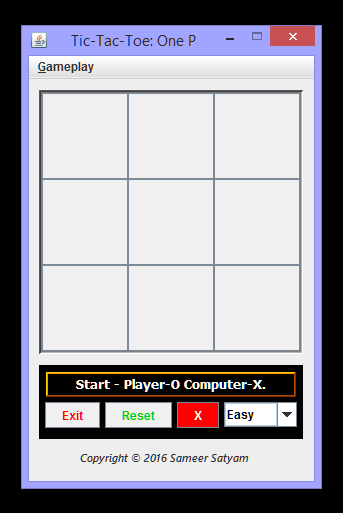
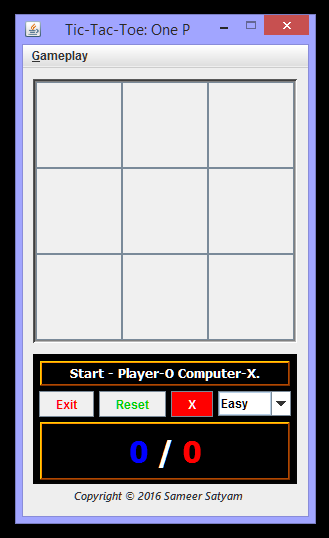
Implemented score board and screenshots replaced

diff --git a/src/TTT/SimpleBoard.java b/src/TTT/SimpleBoard.java
@@ -13,6 +13,8 @@ import java.awt.GridLayout;
 import java.awt.SystemColor;
 import java.awt.event.ActionEvent;
 import java.awt.event.ActionListener;
+import java.awt.event.ItemEvent;
+import java.awt.event.ItemListener;
 import java.awt.event.KeyEvent;
 import java.util.Arrays;
 import java.util.HashSet;
@@ -72,8 +74,18 @@ public class SimpleBoard extends JFrame implements ActionListener{
 	/** The win. */
 	private boolean win = false;
 	
+	private int scorec=0;
+	
+	private int scorep=0;
+	
 	/** The lbl new label. */
 	JLabel lblNewLabel = new JLabel("");
+	
+	/** The scorePanel new label. */
+	JLabel scorePanel = new JLabel("");
+	
+	/** Html string variable.*/
+	String HTMLlabelStr="";
 	
 	/** The choice. */
 	String[] choice = {"Easy", "Medium", "Hard"};  // Easy-random Medium-counter measures Hard-Unbeatable
@@ -89,7 +101,7 @@ public class SimpleBoard extends JFrame implements ActionListener{
 		setTitle("Tic-Tac-Toe: One P");
 		setResizable(false);
 		setDefaultCloseOperation(JFrame.EXIT_ON_CLOSE);
-		setSize(291, 454);
+		setSize(291, 500);
 		contentPane = new JPanel();
 		contentPane.setBorder(new EmptyBorder(5, 5, 5, 5));
 		setContentPane(contentPane);
@@ -115,7 +127,7 @@ public class SimpleBoard extends JFrame implements ActionListener{
 		JPanel panel_1 = new JPanel();
 		panel_1.setBackground(new Color(0, 0, 0));
 		panel_1.setBorder(new BevelBorder(BevelBorder.LOWERED, null, null, null, null));
-		panel_1.setBounds(10, 286, 264, 74);
+		panel_1.setBounds(10, 286, 264, 130);
 		contentPane.add(panel_1);
 		lblNewLabel.setForeground(Color.WHITE);
 		lblNewLabel.setHorizontalAlignment(SwingConstants.CENTER);
@@ -128,6 +140,7 @@ public class SimpleBoard extends JFrame implements ActionListener{
 		lblNewLabel.setMaximumSize(new Dimension(270, 30));
 		lblNewLabel.setText("Start - Player-O Computer-X.");
 		panel_1.add(lblNewLabel);
+		
 		
 		/*JMenu*/
 		JMenuBar mb = new JMenuBar();
@@ -160,6 +173,7 @@ public class SimpleBoard extends JFrame implements ActionListener{
 			@Override
 			public void actionPerformed(ActionEvent e) {
 				buttons=null;
+				scorec=0;scorep=0;
 				System.exit(0);
 			}
 		});
@@ -173,6 +187,7 @@ public class SimpleBoard extends JFrame implements ActionListener{
 			@Override
 			public void actionPerformed(ActionEvent e) {
 				reset();
+				resetBoard();
 			}
 		});
 		panel_1.add(btnNewButton_1);
@@ -192,17 +207,56 @@ public class SimpleBoard extends JFrame implements ActionListener{
 		combox.setBackground(Color.WHITE);
 		combox.setForeground(Color.BLACK);
 		combox.setSelectedIndex(0);
+		combox.addItemListener(new ItemChangeListener());
 		panel_1.add(combox);
+		
+		/*Score Panel*/
+		scorePanel.setForeground(Color.WHITE);
+		scorePanel.setHorizontalAlignment(SwingConstants.CENTER);
+		scorePanel.setFont(new Font("Tahoma", Font.BOLD, 30));
+		scorePanel.setBackground(new Color(255, 102, 0));
 
+		scorePanel.setBorder(new BevelBorder(BevelBorder.RAISED, null, null, null, null));
+		scorePanel.setPreferredSize(new Dimension(250, 58));
+		scorePanel.setMinimumSize(new Dimension(250, 30));
+		scorePanel.setMaximumSize(new Dimension(250, 30));
+		updateScoreBoard(0,0);
+		panel_1.add(scorePanel);
+		
 		JLabel lblNewLabel_1 = new JLabel("Copyright \u00a9 2016 Sameer Satyam");
 		lblNewLabel_1.setFont(new Font("Segoe UI Semibold", Font.ITALIC, 11));
 		lblNewLabel_1.setHorizontalAlignment(SwingConstants.CENTER);
-		lblNewLabel_1.setBounds(35, 371, 200, 14);
+		lblNewLabel_1.setBounds(35, 420, 200, 14);
 		contentPane.add(lblNewLabel_1);
 		setLocationRelativeTo(null);
 		setVisible(true);
 	}
 
+	class ItemChangeListener implements ItemListener{
+	    @Override
+	    public void itemStateChanged(ItemEvent event) {
+	       if (event.getStateChange() == ItemEvent.SELECTED) {
+	          //Object item = event.getItem();
+	          	resetBoard();
+	       }
+	    }      
+	}
+	
+	/**
+	 * Updates the Score Board.
+	 */
+	public void updateScoreBoard(int o,int x){
+		HTMLlabelStr="<html><b color='blue'>"+o+"</b> / <b color='red'>"+x+"</b></html>";
+		scorePanel.setText(HTMLlabelStr);
+	}
+	
+	/**
+	 * Resets the Score Board.
+	 */
+	public void resetBoard(){
+		scorec=0;scorep=0;
+		updateScoreBoard(scorep,scorec);
+	}
 	/**
 	 * Checks if is win.
 	 */
@@ -448,6 +502,12 @@ public class SimpleBoard extends JFrame implements ActionListener{
 		}
 		/*Message*/
 		if(win == true){
+			if(letter.equalsIgnoreCase("X")){
+				scorec++;
+			}else{
+				scorep++;
+			}
+			updateScoreBoard(scorep,scorec);
 			JOptionPane.showMessageDialog(null, letter + " wins the game!","Congratulations !",JOptionPane.INFORMATION_MESSAGE);
 			reset();
 			combox.setEnabled(true);

diff --git a/src/TTT/SimpleBoard2P.java b/src/TTT/SimpleBoard2P.java
@@ -10,10 +10,12 @@ import java.awt.*;
 import java.awt.event.*;
 
 import javax.swing.JButton;
+import javax.swing.JLabel;
 import javax.swing.JMenu;
 import javax.swing.JMenuBar;
 import javax.swing.JMenuItem;
 import javax.swing.KeyStroke;
+import javax.swing.SwingConstants;
 import javax.swing.border.*;
 import javax.swing.*;
 
@@ -56,6 +58,16 @@ public class SimpleBoard2P extends JFrame implements ActionListener{
 	
 	/** The lbl new label. */
 	JLabel lblNewLabel = new JLabel("New label");
+	
+	private int scorec=0;
+	
+	private int scorep=0;
+	
+	/** The scorePanel new label. */
+	JLabel scorePanel = new JLabel("");
+	
+	/** Html string variable.*/
+	String HTMLlabelStr="";
 
 	/**
 	 * Instantiates a new simple board 2 P.
@@ -65,7 +77,7 @@ public class SimpleBoard2P extends JFrame implements ActionListener{
 		setTitle("Tic-Tac-Toe: Two P");
 		setResizable(false);
 		setDefaultCloseOperation(JFrame.EXIT_ON_CLOSE);
-		setSize(291, 454);
+		setSize(291, 500);
 		contentPane = new JPanel();
 		contentPane.setBorder(new EmptyBorder(5, 5, 5, 5));
 		setContentPane(contentPane);
@@ -91,7 +103,7 @@ public class SimpleBoard2P extends JFrame implements ActionListener{
 		JPanel panel_1 = new JPanel();
 		panel_1.setBackground(new Color(0, 0, 0));
 		panel_1.setBorder(new BevelBorder(BevelBorder.LOWERED, null, null, null, null));
-		panel_1.setBounds(10, 286, 264, 74);
+		panel_1.setBounds(10, 286, 264, 130);
 		contentPane.add(panel_1);
 		lblNewLabel.setForeground(Color.WHITE);
 		lblNewLabel.setHorizontalAlignment(SwingConstants.CENTER);
@@ -112,6 +124,8 @@ public class SimpleBoard2P extends JFrame implements ActionListener{
 		btnNewButton.setToolTipText("Exit");
 		btnNewButton.addActionListener(new ActionListener() {
 			public void actionPerformed(ActionEvent e) {
+				scorec=0;scorep=0;
+				buttons=null;
 				System.exit(0);
 			}
 		});
@@ -122,8 +136,10 @@ public class SimpleBoard2P extends JFrame implements ActionListener{
 		btnNewButton_1.setBackground(SystemColor.menu);
 		btnNewButton_1.setToolTipText("Reset");
 		btnNewButton_1.addActionListener(new ActionListener() {
+			@Override
 			public void actionPerformed(ActionEvent e) {
 				reset();
+				resetBoard();
 			}
 		});
 		panel_1.add(btnNewButton_1);
@@ -131,8 +147,22 @@ public class SimpleBoard2P extends JFrame implements ActionListener{
 		JLabel lblNewLabel_1 = new JLabel("Copyright \u00a9 2016 Sameer Satyam");
 		lblNewLabel_1.setFont(new Font("Segoe UI Semibold", Font.ITALIC, 11));
 		lblNewLabel_1.setHorizontalAlignment(SwingConstants.CENTER);
-		lblNewLabel_1.setBounds(35, 371, 200, 14);
+		lblNewLabel_1.setBounds(35, 420, 200, 14);
 		contentPane.add(lblNewLabel_1);
+		
+		
+		/*Score Panel*/
+		scorePanel.setForeground(Color.WHITE);
+		scorePanel.setHorizontalAlignment(SwingConstants.CENTER);
+		scorePanel.setFont(new Font("Tahoma", Font.BOLD, 30));
+		scorePanel.setBackground(new Color(255, 102, 0));
+
+		scorePanel.setBorder(new BevelBorder(BevelBorder.RAISED, null, null, null, null));
+		scorePanel.setPreferredSize(new Dimension(250, 58));
+		scorePanel.setMinimumSize(new Dimension(250, 30));
+		scorePanel.setMaximumSize(new Dimension(250, 30));
+		updateScoreBoard(0,0);
+		panel_1.add(scorePanel);
 
 		/*JMenu*/
 		JMenuBar mb = new JMenuBar();
@@ -158,6 +188,23 @@ public class SimpleBoard2P extends JFrame implements ActionListener{
 		setLocationRelativeTo(null);
 		setVisible(true);
 	}
+	
+	/**
+	 * Updates the Score Board.
+	 */
+	public void updateScoreBoard(int o,int x){
+		HTMLlabelStr="<html><b color='blue'>"+o+"</b> / <b color='red'>"+x+"</b></html>";
+		scorePanel.setText(HTMLlabelStr);
+	}
+	
+	/**
+	 * Resets the Score Board.
+	 */
+	public void resetBoard(){
+		scorec=0;scorep=0;
+		updateScoreBoard(scorep,scorec);
+	}
+	
 	
 	/* (non-Javadoc)
 	 * @see java.awt.event.ActionListener#actionPerformed(java.awt.event.ActionEvent)
@@ -199,6 +246,12 @@ public class SimpleBoard2P extends JFrame implements ActionListener{
 		}
 		/*Message*/
 		if(win == true){
+			if(letter.equalsIgnoreCase("X")){
+				scorec++;
+			}else{
+				scorep++;
+			}
+			updateScoreBoard(scorep,scorec);
 			JOptionPane.showMessageDialog(null, letter + " wins the game!");
 			reset();
 		} else if(count == 9 && win == false){
